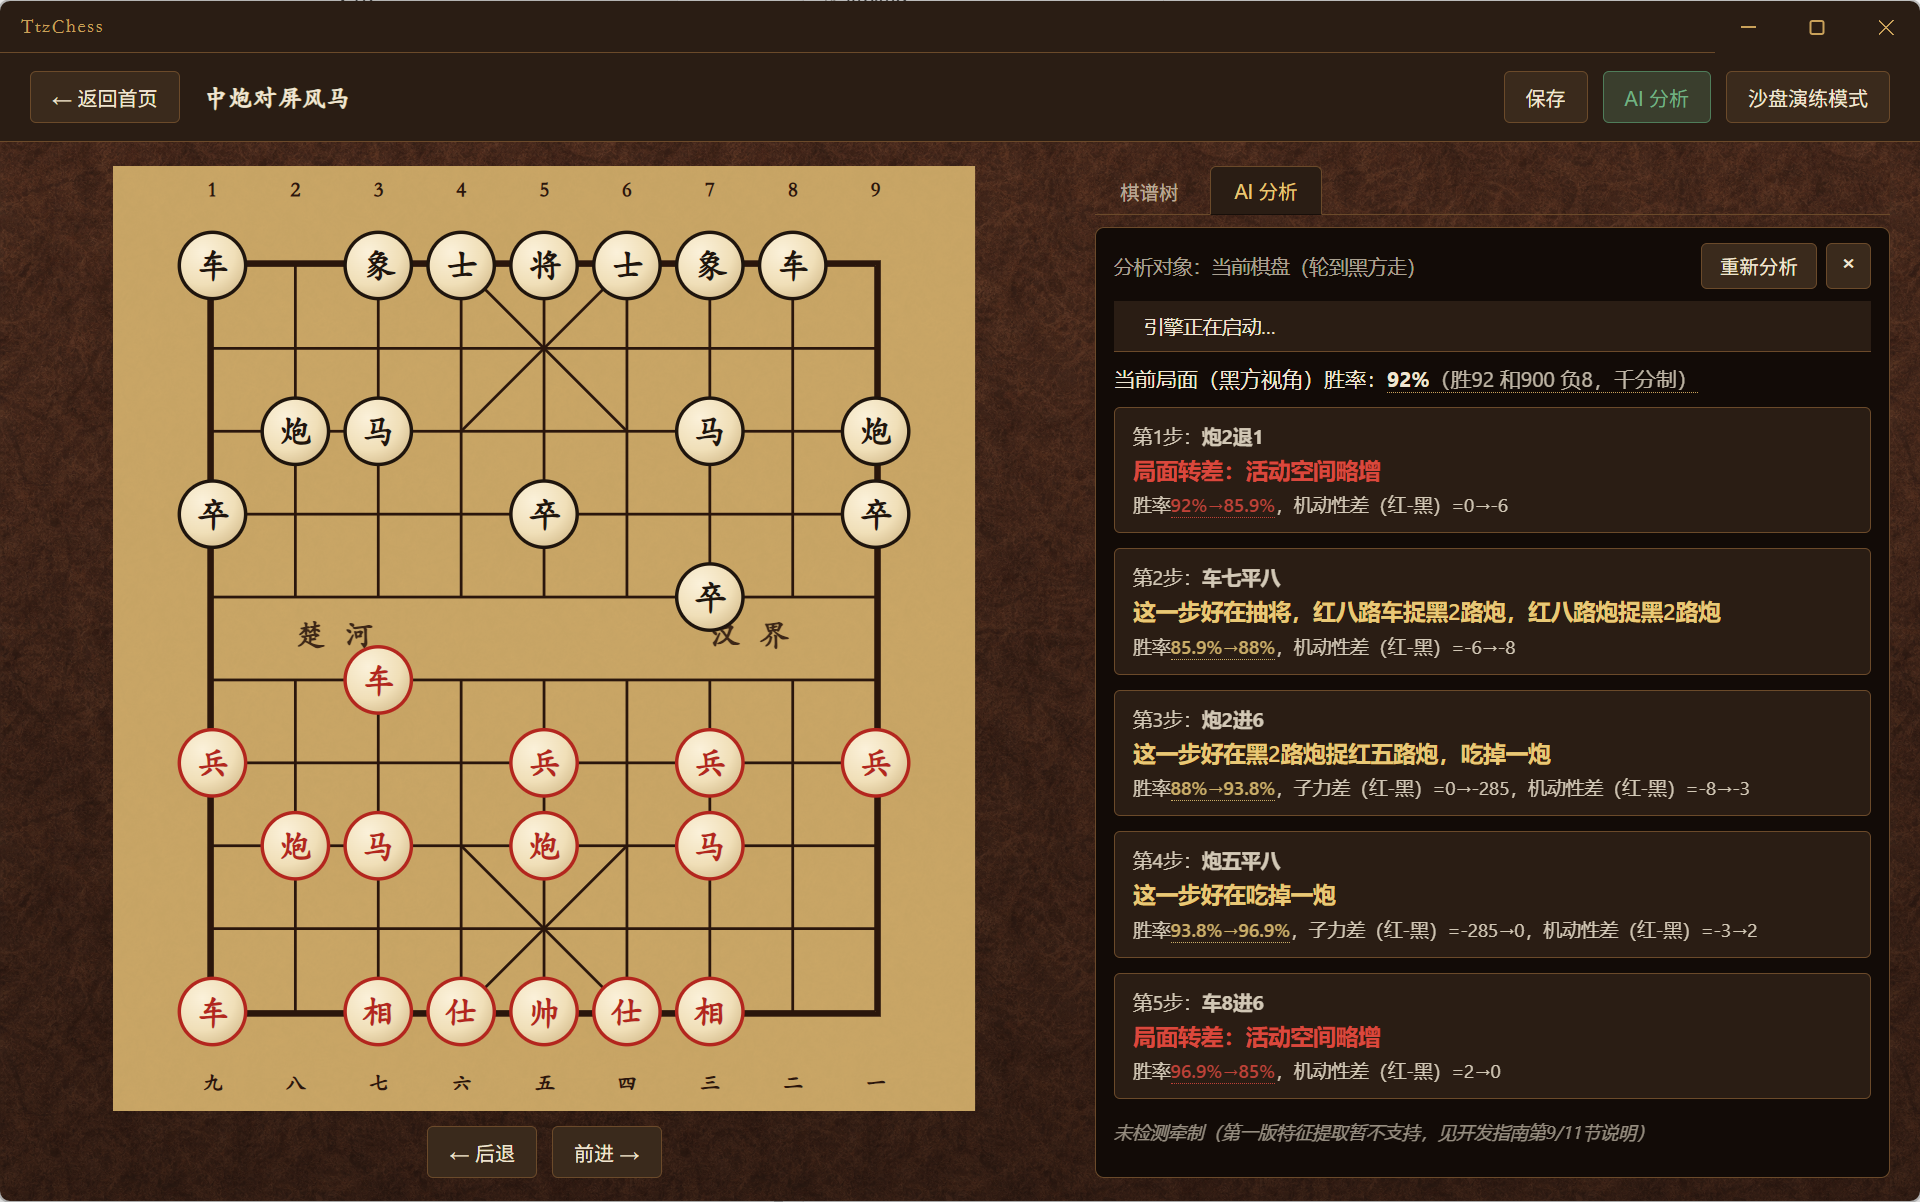
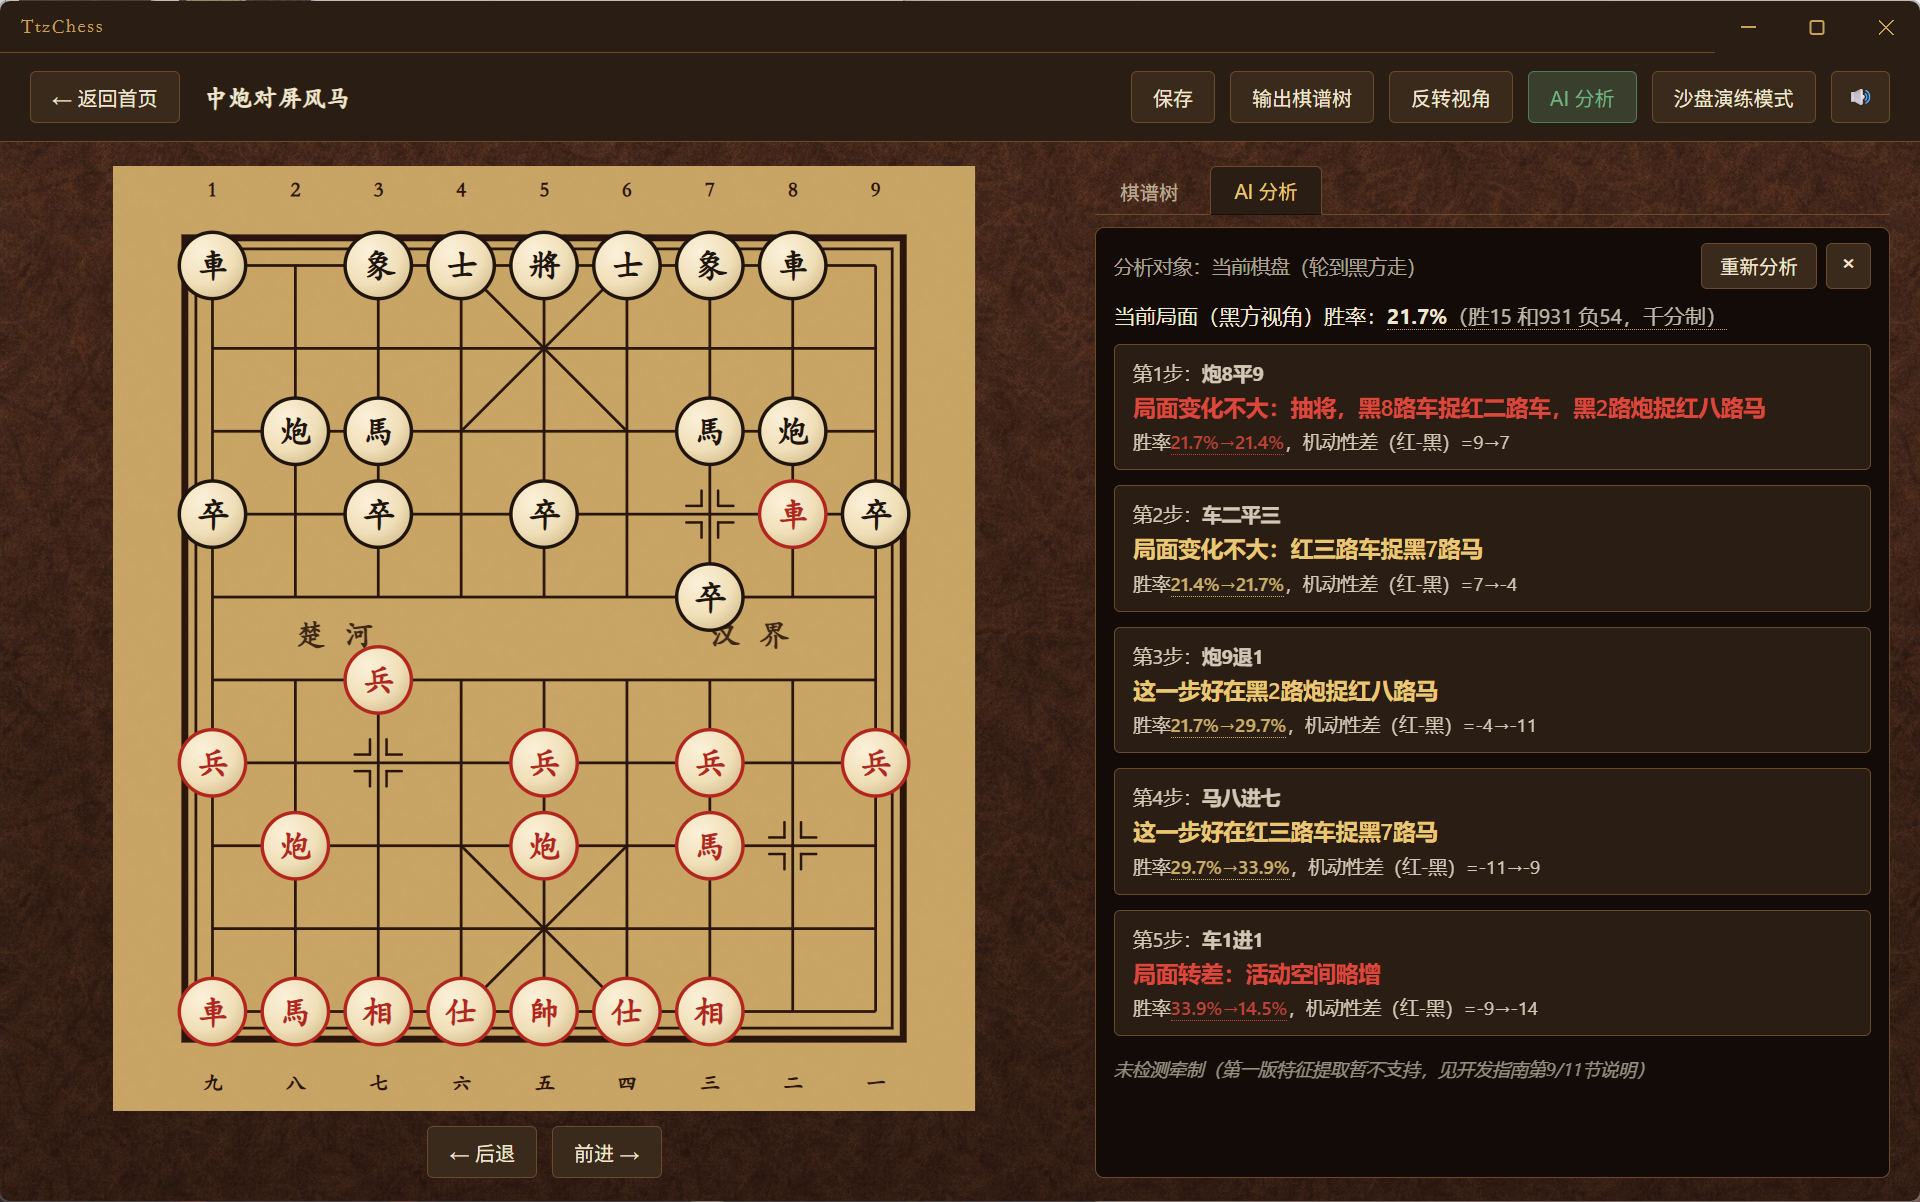
README 换上新版截图，工具栏按钮改成清单
三张截图换成 0.3.0 的界面：径向图的开局切换按钮、新棋盘（繁体字/星位/双线边框）
和多出来的工具栏按钮、AI 分析标签页的真实引擎结果。

打谱那一节原来把反转视角、输出棋谱树、音效、胜负标记全挤在一大段里，扫不动，
拆成一条一个按钮的清单。

顺手把 `开局径向图 .png` 文件名末尾多出来的空格去掉——带空格的文件名在 Markdown
链接里会失效，在区分大小写/严格路径的系统上也容易出问题。

diff --git a/README.en.md b/README.en.md
@@ -10,19 +10,29 @@ Three items on the left sidebar cover everything.
 
 ### Opening map
 
-Openings are grouped by the first piece you play: Cannon, Horse, Chariot, Elephant, Pawn. Click a center piece to start a new line. Click a small ball to open an existing one and keep recording.
+Openings are grouped by the first piece you play: Cannon, Horse, Chariot, Elephant, Pawn. The row of buttons switches between them and one map gets the whole screen, so even long names have room.
+
+Click the center piece to start a new line. Click a small ball to open an existing one and keep recording.
 
 ![Opening map](pics/开局径向图.png)
 
 ### Recording a game
 
-The board is on the left, a glowing move tree on the right. Legal moves only. Each move becomes a node; click a node to jump there. Right-click to add a variation or a note. Turn on **Sandbox** to try ideas — turning it off restores the position you started from.
+The board is on the left, a glowing move tree on the right. Legal moves only. Each move becomes a node; click a node to jump there. Right-click to add a variation or a note. The board is drawn like a real one: traditional characters, star points at the cannon and pawn positions, double-line border.
 
 ![Study board](pics/中炮对屏风马.png)
 
-**AI analysis** in the toolbar sends the board as it stands to the engine — no need to set the position up again. It takes over the right-hand column as a second tab next to the move tree, so you can switch back and forth. Works for opening lines and for midgame / endgame / full-game cases alike.
+The toolbar buttons:
 
-**Flip view** swaps red and black at any time, file numbers included (black is always 1-9, red always 一-九). Opening lines can also export the whole move tree as a PNG. Playing a move, stepping back and forth, or jumping to a node all play a piece-drop sound; the speaker icon mutes it. When a general gets captured, the winner is shown next to the title.
+- **Export move tree** — save the whole tree as an image (opening lines only)
+- **Flip view** — swap red and black; file numbers flip too. Black is always 1-9, red always 一-九
+- **AI analysis** — analyse the board as it stands, no need to set it up again
+- **Sandbox** — try ideas freely; turning it off restores the position you started from, and you can step back and forth while trying
+- **🔊** — piece-drop sound on/off
+
+Playing a move, stepping back and forth, and jumping to a node all play a sound. When a general gets captured, the winner is shown next to the title.
+
+Hitting **AI analysis** turns the right-hand column into two tabs — move tree and analysis — so you can switch back and forth without losing the result.
 
 ![One-click AI analysis while studying](pics/中炮对屏风马AI.png)
 

diff --git a/README.md b/README.md
@@ -10,19 +10,29 @@
 
 ### 开局径向图
 
-按起手棋子把棋路摊开：炮、马、车、相、兵各一个中心。上面一排按钮切换开局，下面整屏画一个——点中心的棋子图标新建一条棋路；点已经长出来的小球，直接进去继续打谱。
+按起手棋子把棋路摊开，炮、马、车、相、兵各一个。上面一排按钮切换开局，下面整屏只画一个，谱名再长也铺得开。
+
+点中间的棋子图标新建一条棋路；点已经长出来的小球，直接进去继续打谱。
 
 ![开局径向图](pics/开局径向图.png)
 
 ### 打谱
 
-左边是棋盘，右边是光球棋谱树。按象棋规则走子，每一步会变成一个光球；点光球就能跳回那一手。右键可以加分支或写笔记。需要试变化时，打开「沙盘演练」——关掉后棋盘会回到进入前的局面。
+左边是棋盘，右边是光球棋谱树。按象棋规则走子，每一步会变成一个光球；点光球就能跳回那一手。右键可以加分支或写笔记。棋盘照着实体棋盘画：繁体字、炮位和卒林的星位、双线包边。
 
 ![中炮对屏风马](pics/中炮对屏风马.png)
 
-工具栏上的「AI 分析」直接拿当前棋盘去问引擎，不用另外再摆一遍局面。结果占用右边那一列，和棋谱树是两个标签页，随时切回去看棋路——开局棋路和中局／残局／整局案例都能用。
+工具栏上这几个按钮：
 
-「反转视角」随时对调红黑，两侧路数跟着翻（黑方永远是 1-9，红方永远是一-九）。开局棋路还能用「输出棋谱树」把整棵树存成一张图片。走子、前进后退、点光球跳局面都有落子声，右边喇叭图标可以静音。一方的将被吃掉时，标题旁边会标出谁赢了。
+- **输出棋谱树** —— 把整棵树存成一张图片（只有开局棋路有）
+- **反转视角** —— 红黑对调，两侧路数跟着翻。黑方永远是 1-9，红方永远是一-九
+- **AI 分析** —— 直接分析当前棋盘，不用另外再摆一遍
+- **沙盘演练模式** —— 随便试几步，关掉自动回到进入前的局面；试的时候照样能前进后退
+- **🔊** —— 落子音效开关
+
+走子、前进后退、点光球跳局面都会响一声落子。一方的将被吃掉时，标题旁边直接标出谁赢了。
+
+点「AI 分析」之后，右边那一列变成「棋谱树 / AI 分析」两个标签页，随时切回去看棋路，切回来结果还在。
 
 ![打谱时一键 AI 分析](pics/中炮对屏风马AI.png)
 
